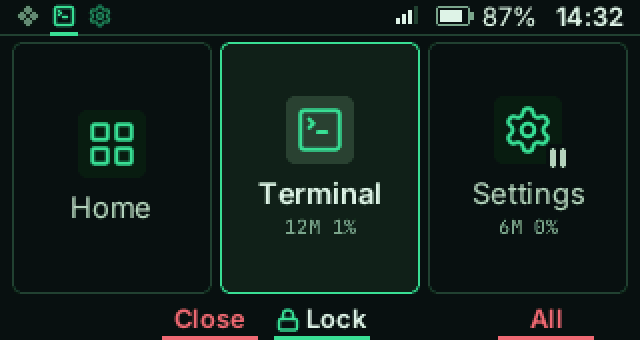
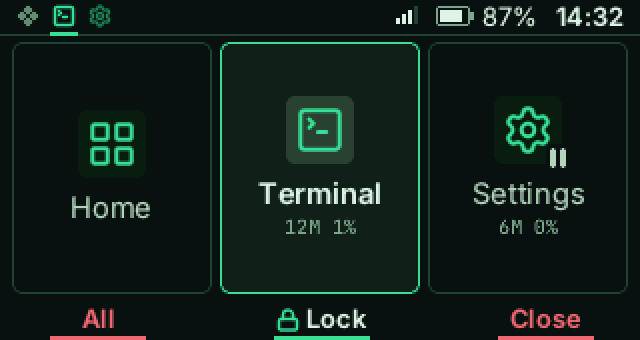
Switcher: All on 4, Close on 8
All is held on 4 at the left and Close sits alone on 8 at the right,
with Lock on 6 between. Esc alone goes back in the switcher, so 4 is
free. Del still closes the selected app, or held on Home closes all.

Claude-Session: https://claude.ai/code/session_013xPXD2FmhLhSTYAjyD6KPf

Changed region(s): [[0.0625, 0.8824, 0.4062, 1.0], [0.7812, 0.8824, 0.9062, 0.9706]]

diff --git a/crates/gh0st-shell/src/switcher.rs b/crates/gh0st-shell/src/switcher.rs
@@ -14,7 +14,7 @@ use gh0st_ui::theme::Theme;
 use gh0st_ui::widgets::{self, Card as CardView, Status, Visual};
 
 const GLIDE_MS: u64 = 80;
-/// How long 8 is held to close every app, as the SDK's held chip.
+/// How long 4 is held to close every app, as the SDK's held chip.
 const HOLD_MS: u64 = 700;
 /// A frame of the hold's fill.
 const HOLD_FRAME_MS: u64 = 40;
@@ -53,7 +53,7 @@ enum Motion {
 
 type Anim = motion::Anim<Motion>;
 
-/// 8, or Del on Home, held to close every app. It exists only while the key
+/// 4, or Del on Home, held to close every app. It exists only while the key
 /// is down.
 #[derive(Clone, Copy, Debug)]
 struct Hold {
@@ -424,10 +424,10 @@ impl Switcher {
         widgets::selection_ring(c, t, frame);
         c.set_clip(old);
         self.meters(c, t);
-        // 5 closes the app in front of you, at once; 8 held closes them
-        // all. Far apart, so neither is pressed for the other. 6 locks,
-        // which loses nothing if pressed for Close. The switcher has no
-        // menu, so 8 is free.
+        // 8 closes the app in front of you, at once; 4 held closes them
+        // all. At the two ends, so neither is pressed for the other, and
+        // nothing sits next to Close. 6 locks in the middle. The switcher
+        // has no menu, so 8 is free, and Esc alone goes back, so 4 is.
         use widgets::{Chip, Look};
         let none = Chip::default();
         let danger = |icon, word| Chip {
@@ -453,7 +453,7 @@ impl Switcher {
             word: "Lock",
             look: Look::Normal,
         };
-        widgets::action_bar(c, t, &[none, close, lock, none, all]);
+        widgets::action_bar(c, t, &[all, none, lock, none, close]);
     }
 
     /// CPU and memory, side by side across the cards' width. The top bar's
@@ -575,34 +575,34 @@ mod tests {
         assert_eq!(s.selected(), 0);
     }
 
-    const EIGHT: u16 = 9;
+    const FOUR: u16 = 5;
 
     #[test]
     fn a_hold_fills_then_closes_all_and_no_deadline_outlives_it() {
         let mut s = switcher(&["a"]);
-        s.hold_all(EIGHT, 1000);
+        s.hold_all(FOUR, 1000);
         assert_eq!(s.hold_at(), Some(1000 + HOLD_FRAME_MS));
         assert_eq!(s.hold_tick(1020), HoldTick::Idle);
         assert_eq!(s.hold_tick(1040), HoldTick::Fill);
         assert_eq!(s.hold.unwrap().pc, 5);
-        assert_eq!(s.hold_tick(1000 + HOLD_MS), HoldTick::Done(EIGHT));
+        assert_eq!(s.hold_tick(1000 + HOLD_MS), HoldTick::Done(FOUR));
         assert!(!s.holding());
         assert_eq!(s.hold_at(), None);
         // The key comes up after: nothing to let go of.
-        assert!(!s.let_go(EIGHT));
+        assert!(!s.let_go(FOUR));
     }
 
     #[test]
     fn letting_go_early_or_moving_ends_the_hold() {
         let mut s = switcher(&["a", "b"]);
-        s.hold_all(EIGHT, 0);
+        s.hold_all(FOUR, 0);
         assert!(
-            !s.let_go(EIGHT + 1),
+            !s.let_go(FOUR + 1),
             "another key's release is not this hold"
         );
-        assert!(s.let_go(EIGHT));
+        assert!(s.let_go(FOUR));
         assert_eq!(s.hold_at(), None);
-        s.hold_all(EIGHT, 0);
+        s.hold_all(FOUR, 0);
         s.move_by(1, 10);
         assert!(!s.holding());
     }
@@ -610,10 +610,10 @@ mod tests {
     #[test]
     fn nothing_open_nothing_to_hold() {
         let mut s = switcher(&[]);
-        s.hold_all(EIGHT, 0);
+        s.hold_all(FOUR, 0);
         assert!(!s.holding());
         let mut s = switcher(&["a"]);
-        s.hold_all(EIGHT, 0);
+        s.hold_all(FOUR, 0);
         s.set_apps(Vec::new());
         assert!(!s.holding());
     }

diff --git a/crates/gh0st-shell/src/run.rs b/crates/gh0st-shell/src/run.rs
@@ -2191,7 +2191,7 @@ impl Shell {
         }
     }
 
-    /// The hold on 8 fills, and at its end closes every app. Only if its
+    /// The hold on 4 fills, and at its end closes every app. Only if its
     /// key is still down: a release lost on the way must not close them.
     fn close_all_tick(&mut self, now: u64) {
         match self.switcher.hold_tick(now) {
@@ -2264,9 +2264,9 @@ impl Shell {
         match k.nav(true) {
             Some(keys::Nav::Left) => self.switcher.move_by(-1, now),
             Some(keys::Nav::Right) => self.switcher.move_by(1, now),
-            _ if (k.is(code::BACKSPACE) || k.ch == Some('5')) && k.state == State::Press => {
-                // Del or 5 on an app closes it; on Home, Del held closes
-                // every app, as 8 does.
+            _ if (k.is(code::BACKSPACE) || k.ch == Some('8')) && k.state == State::Press => {
+                // Del or 8 on an app closes it; on Home, Del held closes
+                // every app, as 4 does.
                 match self.switcher.selected_app().map(|c| c.id.clone()) {
                     Some(id) => {
                         self.tasks.close(&id, now);
@@ -2277,7 +2277,7 @@ impl Shell {
                     None => {}
                 }
             }
-            _ if k.ch == Some('8') && k.state == State::Press => {
+            _ if k.ch == Some('4') && k.state == State::Press => {
                 self.switcher.hold_all(k.code, now);
             }
             _ if k.ch == Some('6') && k.state == State::Press => self.lock_now(now),
@@ -2670,7 +2670,10 @@ mod tests {
     fn a_wake_locks_past_lock_after_only() {
         let due = |secure, since, after, now| lock_due(secure, since, after, now);
         assert!(due(true, None, None, 0), "by hand or at start");
-        assert!(!due(false, Some(1000), Some(300_000), 200_000), "a short dark");
+        assert!(
+            !due(false, Some(1000), Some(300_000), 200_000),
+            "a short dark"
+        );
         assert!(due(false, Some(1000), Some(300_000), 301_000), "a long one");
         assert!(due(false, Some(1000), Some(0), 1000), "at once");
         assert!(!due(false, Some(1000), None, u64::MAX / 2), "only by hand");

diff --git a/crates/gh0st-ui/examples/design.rs b/crates/gh0st-ui/examples/design.rs
@@ -1128,11 +1128,11 @@ fn switcher_base(t: &Theme) -> Canvas {
 fn switcher(t: &Theme) -> Canvas {
     let mut c = switcher_base(t);
     let slots = [
+        l("copy-x", "All", Look::Danger),
         NONE,
-        l("circle-x", "Close", Look::Danger),
         n("lock", "Lock"),
         NONE,
-        l("copy-x", "All", Look::Danger),
+        l("circle-x", "Close", Look::Danger),
     ];
     widgets::action_bar(&mut c, t, &slots);
     c
@@ -1141,11 +1141,11 @@ fn switcher(t: &Theme) -> Canvas {
 fn close_all(t: &Theme) -> Canvas {
     let mut c = switcher_base(t);
     let slots = [
+        l("copy-x", "All", Look::Hold(60)),
         NONE,
-        l("circle-x", "Close", Look::Danger),
         n("lock", "Lock"),
         NONE,
-        l("copy-x", "All", Look::Hold(60)),
+        l("circle-x", "Close", Look::Danger),
     ];
     widgets::action_bar(&mut c, t, &slots);
     c
@@ -1407,13 +1407,13 @@ fn main() {
         ("36-home", "home: 4 Apps, 6 Find, 8 Menu", home, true),
         (
             "37-switcher",
-            "switcher: 5 closes one, 6 locks, 8 all",
+            "switcher: 4 all, 6 locks, 8 closes one",
             switcher,
             false,
         ),
         (
             "37b-close-all",
-            "hold 8: every app closes",
+            "hold 4: every app closes",
             close_all,
             false,
         ),

diff --git a/docs/design.md b/docs/design.md
@@ -153,9 +153,9 @@ screen's bottom edge, right above its key, and pressing that key runs it.
 
 | Key | Holds |
 |---|---|
-| 4 | nothing. It is Esc, for template apps. Home has no Esc and puts Apps here. |
+| 4 | nothing. It is Esc, for template apps. Home has no Esc and puts Apps here; the switcher puts All here, held. |
 | 5, 6, 7 | the page's own actions |
-| 8 | the menu, an icon-only ≡ chip. The switcher has no menu and puts All here. |
+| 8 | the menu, an icon-only ≡ chip. The switcher has no menu and puts Close here. |
 
 Chips spread across the bar, so a key is easy to find without looking. One
 chip sits in the middle, on 6. Two go apart, on 5 and 7; of a pair (Prev and
@@ -319,10 +319,11 @@ Home: 4 Apps, 6 Find, 8 the home menu (pin, layout). Enter opens the app.
 
 ![The switcher](design/37-switcher.png)
 
-The switcher: 5 Close closes the selected app at once. 6 Lock locks. 8 All is
-held: its chip fills red, and at 0.7 s every app closes. Del held on Home does
-the same. A shorter press shows "Hold to close all". Close and All sit at the
-two ends, so one is never pressed for the other.
+The switcher: 4 All is held: its chip fills red, and at 0.7 s every app
+closes. Del held on Home does the same. A shorter press shows "Hold to close
+all". 6 Lock locks. 8 Close closes the selected app at once, and so does Del.
+All and Close sit at the two ends, so one is never pressed for the other, and
+nothing sits next to Close.
 
 ## The lock screen
 
